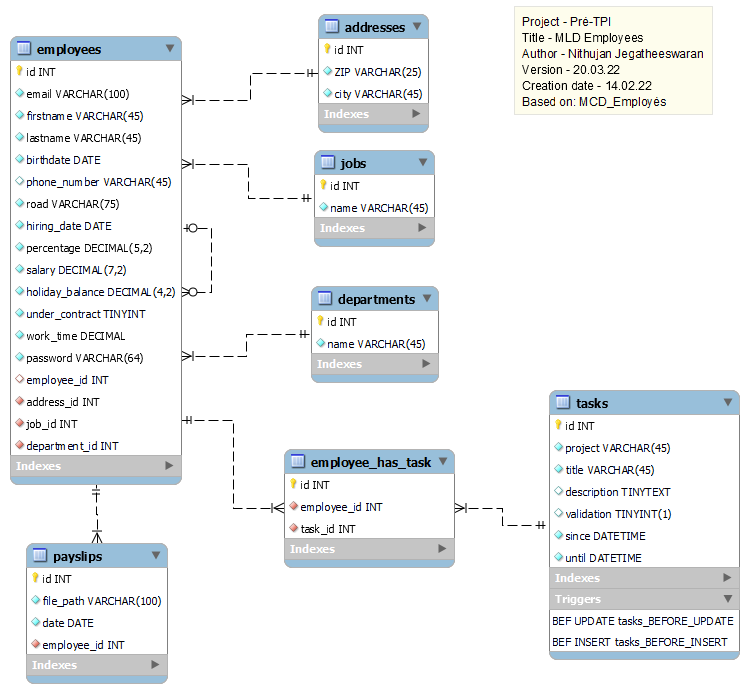
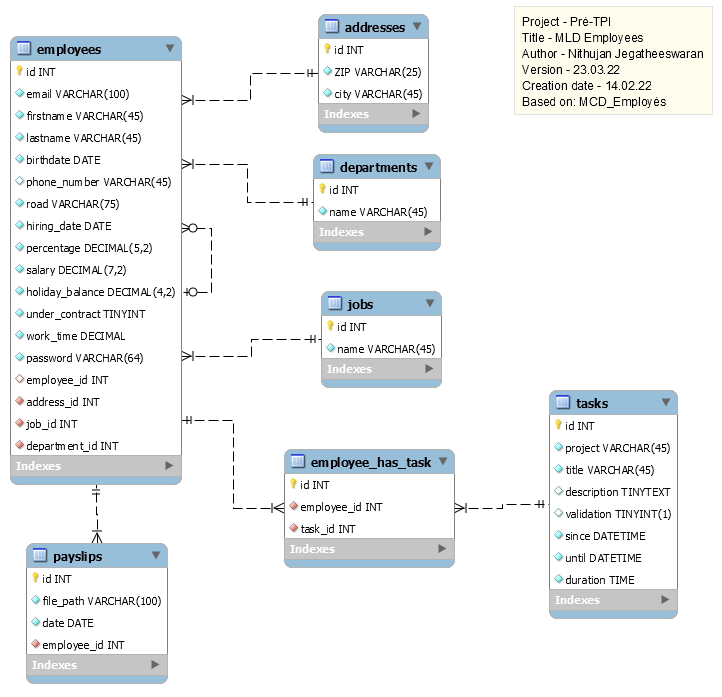
MLD minor update
- new cloumn added: duration

diff --git a/code/employees_mgmt_app/app/model/tables.py b/code/employees_mgmt_app/app/model/tables.py
@@ -67,6 +67,7 @@ class Tasks(db.Model):
     validation = db.Column(db.BOOLEAN, default=0)
     since = db.Column(db.DATETIME, nullable=False)
     until = db.Column(db.DATETIME, nullable=False)
+    duration = db.Column(db.DATETIME, nullable=False)
 
 
 # INFO: This cannot be used for inner joins
